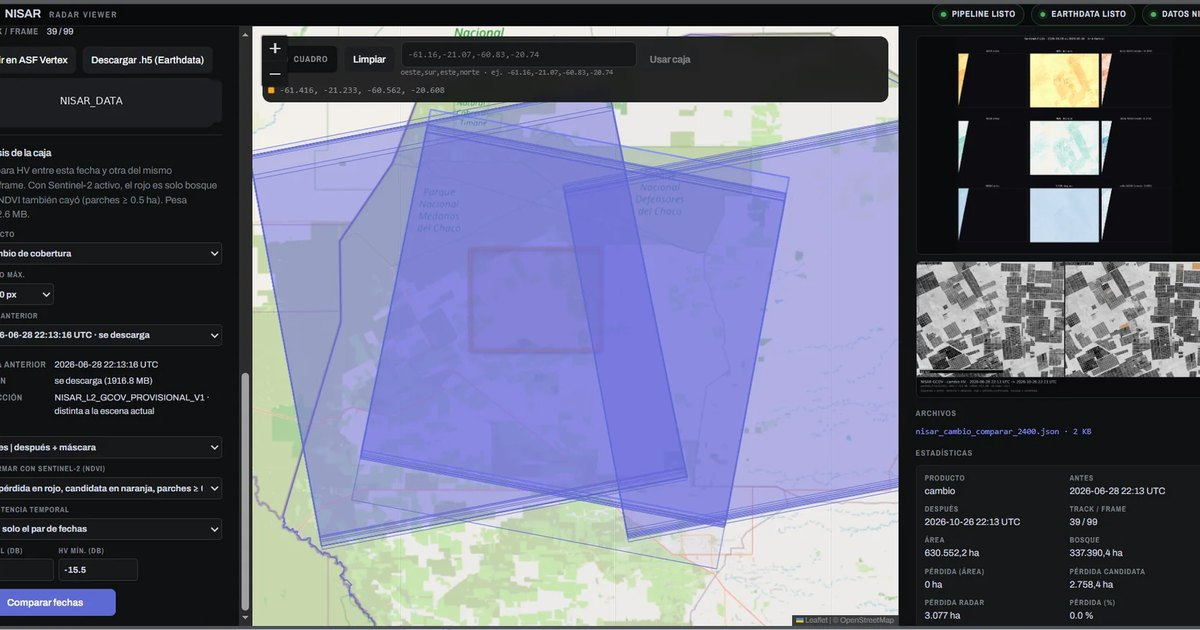
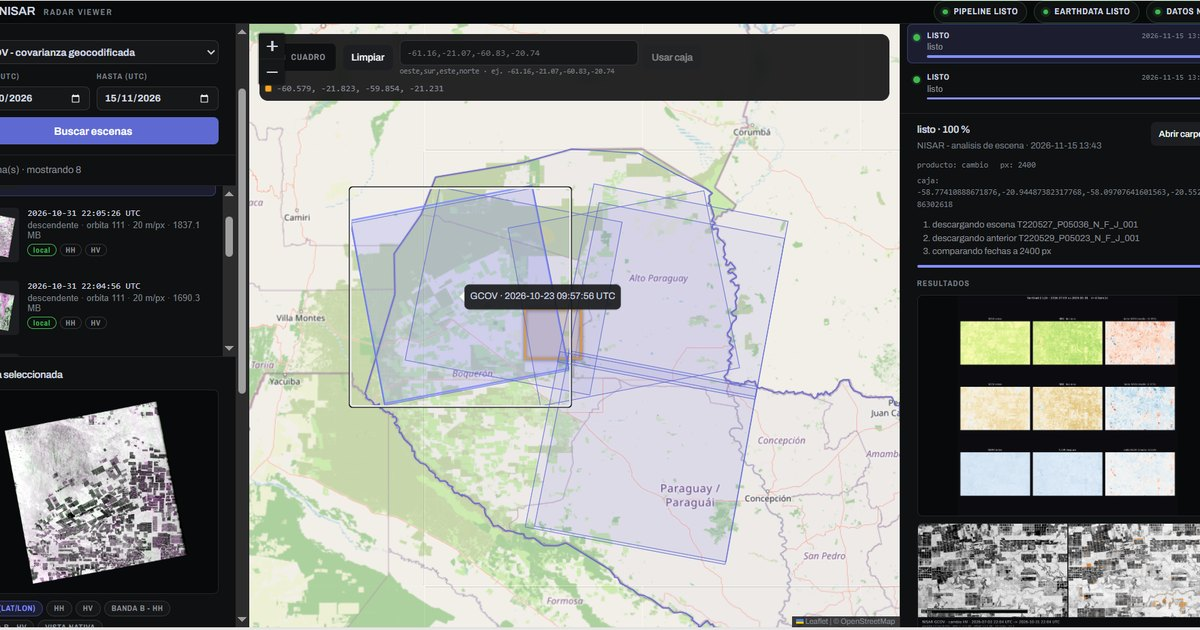
feat(site): reemplazar tres capturas por las nuevas y pasar la galeria a columnas

diff --git a/index.html b/index.html
@@ -243,67 +243,69 @@
       <h3 class="sub" id="por-dentro">Así se ve por dentro</h3>
       <p class="prose">
         Cuatro capturas de la consola corriendo en local: la búsqueda de escenas y las capas
-        sobre el mapa, el panel de trabajos, las columnas de estadísticas con el registro paso
-        a paso, y lo que deja una corrida terminada.
+        sobre el mapa, el panel de trabajos, los resultados de una corrida y las columnas de
+        estadísticas con el registro paso a paso.
       </p>
 
-      <div class="split split--figs">
+      <div class="gallery">
         <figure class="panel">
-          <a href="img/panel-escenas.webp" target="_blank" rel="noopener">
-            <img src="img/panel-escenas.webp" alt="Consola con una caja sobre el Chaco, dos escenas NISAR listadas, la huella de la escena elegida sobre el mapa y el panel de trabajos">
+          <a href="img/panel-escenas.webp?v=2" target="_blank" rel="noopener">
+            <img src="img/panel-escenas.webp?v=2" alt="Consola con ocho escenas NISAR listadas, varias huellas superpuestas sobre el mapa y la escena elegida con su browse">
           </a>
           <figcaption>
-            Búsqueda por caja y capas sobre el mapa. A la izquierda, las dos escenas que cruzan
-            la caja con su browse, órbita y peso; en el centro, la huella de la escena elegida;
-            arriba a la derecha, el historial de trabajos.
+            Búsqueda por caja y capas sobre el mapa. A la izquierda, las ocho escenas que cruzan
+            la caja con su browse, órbita y peso; en el centro, las huellas de cada escena y el
+            globo con track y fecha; arriba a la derecha, el historial de trabajos.
           </figcaption>
         </figure>
+
         <figure class="panel">
-          <a href="img/panel-trabajos.webp" target="_blank" rel="noopener">
-            <img src="img/panel-trabajos.webp" alt="Panel de trabajos con veinte corridas, estados y la corrida seleccionada con su producto y su caja">
+          <a href="img/panel-trabajos.webp?v=2" target="_blank" rel="noopener">
+            <img src="img/panel-trabajos.webp?v=2" alt="Panel de trabajos con corridas listas, una con error y otra cancelada, y el detalle de la corrida elegida">
           </a>
           <figcaption>
-            El panel de trabajos: veinte corridas con estado y fecha. La elegida muestra
-            producto, tamaño de píxel, la caja exacta y el plan de dos pasos que ejecutó.
+            El panel de trabajos: veinte corridas con estado —listo, error, cancelado— y fecha.
+            La elegida muestra producto, tamaño de píxel, la caja exacta y el plan de pasos que
+            ejecutó.
+          </figcaption>
+        </figure>
+
+        <figure class="panel">
+          <a href="img/panel-resultados.webp?v=2" target="_blank" rel="noopener">
+            <img src="img/panel-resultados.webp?v=2" alt="Resultados de una corrida: nueve capas derivadas, el antes y el después del radar y la lista de archivos">
+          </a>
+          <figcaption>
+            Resultados de una corrida: nueve capas derivadas sobre la misma grilla y el
+            antes/después del radar, más el archivo que quedó en disco.
+          </figcaption>
+        </figure>
+
+        <figure class="panel">
+          <a href="img/panel-registros.webp" target="_blank" rel="noopener">
+            <img src="img/panel-registros.webp" alt="Columnas de estadísticas de la corrida y registro con marcas de tiempo de cada paso">
+          </a>
+          <figcaption>
+            Las columnas de estadísticas —pérdida, umbral, HV mínimo, persistencia, modo,
+            resolución— y el registro con marca de tiempo de cada paso: apertura del
+            <code>.h5</code>, multillook, corrección del par, búsqueda de Sentinel-2 ítem por
+            ítem.
           </figcaption>
         </figure>
       </div>
 
-      <figure class="panel panel--wide">
-        <a href="img/panel-registros.webp" target="_blank" rel="noopener">
-          <img src="img/panel-registros.webp" alt="Columnas de estadísticas de la corrida y registro con marcas de tiempo de cada paso">
-        </a>
-        <figcaption>
-          Las columnas de estadísticas —pérdida, umbral, HV mínimo, persistencia, modo,
-          resolución— y el registro con marca de tiempo de cada paso: apertura del <code>.h5</code>,
-          multillook, corrección del par, búsqueda de Sentinel-2 ítem por ítem.
-        </figcaption>
-      </figure>
-
-      <div class="split split--figs split--balance">
-        <figure class="panel panel--narrow">
-          <a href="img/panel-resultados.webp" target="_blank" rel="noopener">
-            <img src="img/panel-resultados.webp" alt="Resultados de una corrida: seis capas derivadas, el antes y el después del radar con la pérdida marcada y la lista de archivos">
-          </a>
-          <figcaption>
-            Resultados de una corrida: seis capas derivadas y el antes/después del radar con la
-            pérdida marcada, más la lista de archivos que quedó en disco.
-          </figcaption>
-        </figure>
-        <article class="block block--loose">
-          <h3>Qué queda de cada corrida</h3>
-          <ul class="block__list">
-            <li>El PNG y el GeoTIFF de cada capa, con la misma grilla del radar.</li>
-            <li>Un JSON con las estadísticas que alimentan esas columnas.</li>
-            <li>El registro completo con el plan exacto de comandos.</li>
-            <li>El historial: la corrida se puede volver a abrir o repetir después.</li>
-          </ul>
-          <p class="tech-note">
-            Esta galería sale de una instalación local con datos reales del Chaco; ninguna
-            captura fue armada a mano.
-          </p>
-        </article>
-      </div>
+      <article class="block block--loose block--wide">
+        <h3>Qué queda de cada corrida</h3>
+        <ul class="block__list">
+          <li>El PNG y el GeoTIFF de cada capa, con la misma grilla del radar.</li>
+          <li>Un JSON con las estadísticas que alimentan esas columnas.</li>
+          <li>El registro completo con el plan exacto de comandos.</li>
+          <li>El historial: la corrida se puede volver a abrir o repetir después.</li>
+        </ul>
+        <p class="tech-note">
+          Esta galería sale de una instalación local con datos reales; ninguna captura fue
+          armada a mano.
+        </p>
+      </article>
 
       <p class="callout">
         Esta página muestra <strong>lo que la app produce</strong>, no la app en vivo: la

diff --git a/styles.css b/styles.css
@@ -1230,8 +1230,6 @@ h3.sub + .prose { margin-bottom: 24px; }
 
 /* ---------- galeria de paneles de la consola ---------- */
 
-.panel--narrow { max-width: 440px; width: 100%; }
-
 .block--loose { display: flex; flex-direction: column; justify-content: center; }
 
 .block--loose h3 { margin-bottom: 12px; }
@@ -1243,3 +1241,15 @@ h3.sub + .prose { margin-bottom: 24px; }
 }
 
 .split--balance { align-items: stretch; }
+
+/* ---------- galeria en columnas ---------- */
+
+.gallery { columns: 2; column-gap: 26px; }
+
+.gallery .panel { break-inside: avoid; margin: 0 0 26px; }
+
+.block--wide { max-width: none; margin-top: 4px; }
+
+@media (max-width: 860px) {
+  .gallery { columns: 1; }
+}
